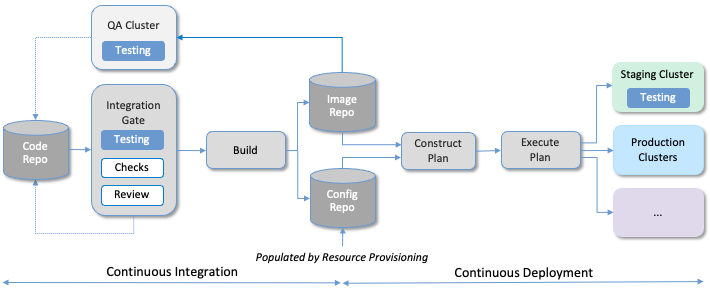
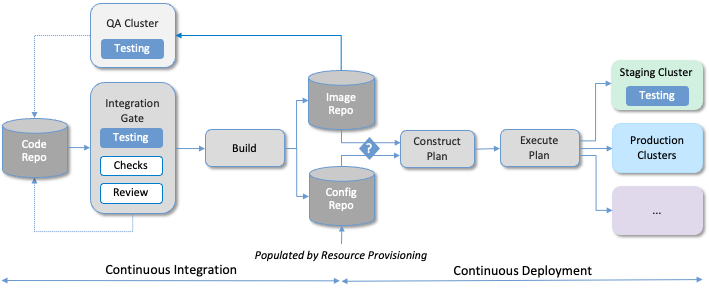
deployment gate

diff --git a/lifecycle.rst b/lifecycle.rst
@@ -47,6 +47,13 @@ produces Docker Images and Helm Charts, storing them in the respective
 Repositories, while CD consumes Docker Images and Helm Charts, pulling
 them from the respective Repositories.
 
+.. _fig-pipeline:
+.. figure:: figures/Slide10.png 
+   :width: 600px 
+   :align: center 
+
+   Overview of the CI/CD pipeline. 
+
 The Config Repo also contains declarative specifications of the
 infrastructure artifacts produced by Resource Provisioning,
 specifically, the Terraform templates and variable files.\ [#]_ While
@@ -86,23 +93,20 @@ up-to-date.
     the artifact" step. For our purposes, we lump "publish the
     artifact" into the CI half of the pipeline.*
 
-.. _fig-pipeline:
-.. figure:: figures/Slide10.png
-   :width: 600px
-   :align: center
-
-   Overview of the CI/CD pipeline.
-
-There are two important takeaways from this overview. The first is
-that by having well-defined artifacts passed between CI and CD (and
-between Resource Provisioning and CD), all three subsystems are
-loosely coupled, and able to perform their respective tasks
-independently. The second is that all authoritative state needed to
-successfully build and deploy the system is contained within the
-pipeline, specifically, as declarative specifications in the Config
-Repo. This is sometimes referred to as *Configuration-as-Code*, and it
-is the cornerstone of GitOps, the cloud native approach to CI/CD that
-we are describing in this book.
+There are three takeaways from this overview. The first is that by
+having well-defined artifacts passed between CI and CD (and between
+Resource Provisioning and CD), all three subsystems are loosely
+coupled, and able to perform their respective tasks independently. The
+second is that all authoritative state needed to successfully build
+and deploy the system is contained within the pipeline, specifically,
+as declarative specifications in the Config Repo. This is sometimes
+referred to as *Configuration-as-Code*, and it is the cornerstone of
+GitOps, the cloud native approach to CI/CD that we are describing in
+this book. The third is that there is an opportunity for operators to
+apply discretion to the pipeline (denoted by the diamond in the
+figure), controlling what features get deployed when. This topic is
+discussed in the sidebar, as well as at other points throughout this
+chapter.
 
 .. _reading_gitops:
 .. admonition:: Further Reading
@@ -129,17 +133,14 @@ upgrade is reliable.
 	
 This is a simplified depiction of what happens in practice. In
 general, there can be more than two distinct versions of the cloud
-software deployed at any given time. In the case of Aether, for
-example, individual enterprises might elect to upgrade their local ACE
-clusters at different times (or in principle, skip an upgrade entirely),
-meaning there can be more than two versions running simultaneously. It
-is also typically the case that upgrades are rolled out incrementally
-(e.g., a few sites at a time over an extended period of time), meaning
-that even the production system plays a role in “staging” new
-releases. For example, a new version might first be deployed on 10% of
-the production machines, and once it is deemed reliable, is then
-rolled out to the next 25%, and so on. The exact rollout strategy is a
-controllable parameter, as described in more detail in Section 4.4.
+software deployed at any given time. One reason this happens is that
+upgrades are typically rolled out incrementally (e.g., a few sites at
+a time over an extended period of time), meaning that even the
+production system plays a role in “staging” new releases. For example,
+a new version might first be deployed on 10% of the production
+machines, and once it is deemed reliable, is then rolled out to the
+next 25%, and so on. The exact rollout strategy is a controllable
+parameter, as described in more detail in Section 4.4.
 
 Finally, two of the CI stages shown in :numref:`Figure %s
 <fig-pipeline>` identify a *Testing* component. One is a set of
@@ -660,7 +661,8 @@ in concert with an end-to-end versioning strategy, ensuring that the
 right combination of source modules get integrated, and later, the
 right combination of images get deployed. Remember, the high-level
 challenge is to manage the set of features that our cloud supports,
-which is to say, everything hinges on how we do versioning.
+which is another way of saying that everything hinges on how we
+version those features.
 
 Our starting point is to adopt the widely-accepted practice of
 *Semantic Versioning*, where each component is assigned a three-part
@@ -727,14 +729,14 @@ the software lifecycle:
   number), with the version of the root Chart effectively identifying
   the version of the system as a whole being deployed.
 
-While some of the Source Code :math:`\rightarrow` Docker Image
-:math:`\rightarrow` Kubernetes Container relationships just outlined
+While some of the *Source Code* :math:`\rightarrow` *Docker Image*
+:math:`\rightarrow` *Kubernetes Container* relationships just outlined
 can be codified in the toolchain, at least at the level of automated
 sanity tests that catch obvious mistakes, responsibility ultimately
 falls to the developers checking in source code and the operators
 checking in configuration code; they must correctly specify the
-versions they intend. Having a simple and clear versioning strategy
-is a pre-requisite for doing that job.
+versions they intend. Having a simple and clear versioning strategy is
+a pre-requisite for doing that job.
 
 Finally, because versioning is inherently related to APIs, with the
 *MAJOR* version number incremented whenever the API changes in
